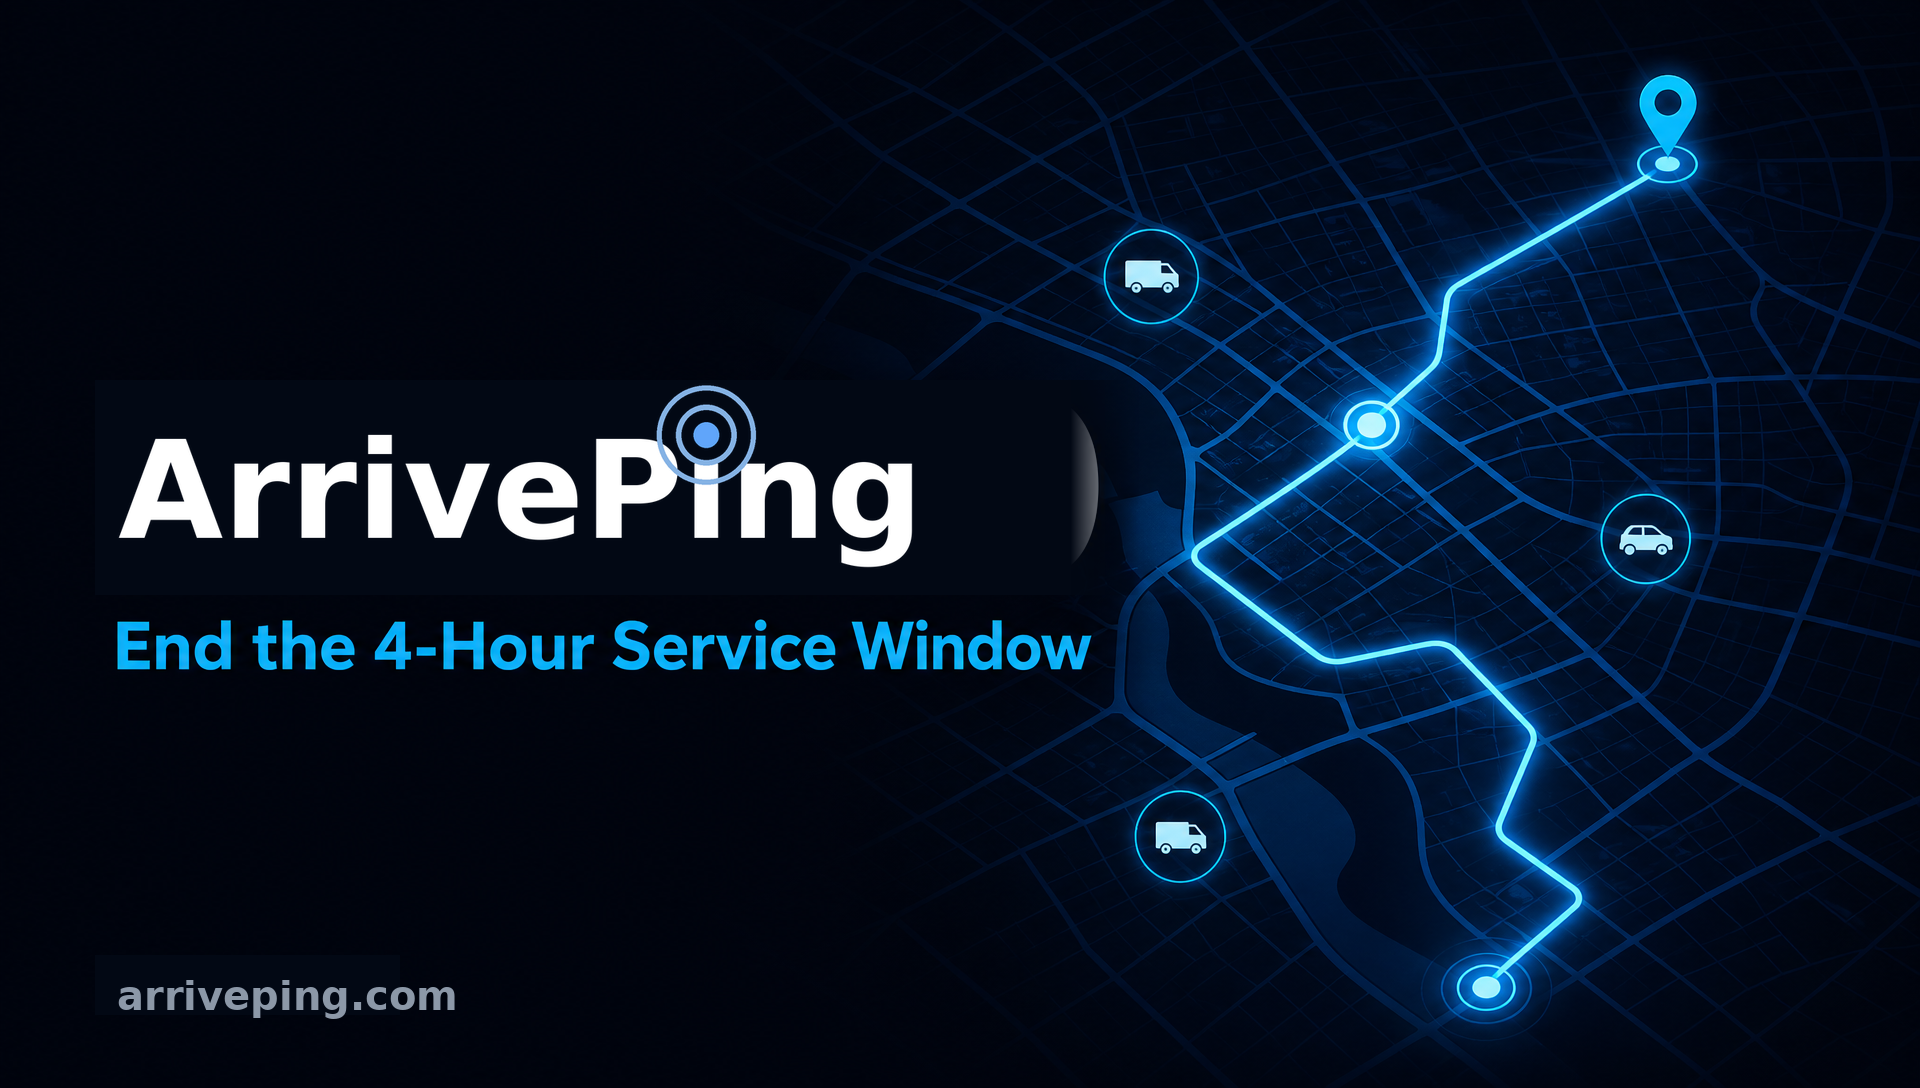
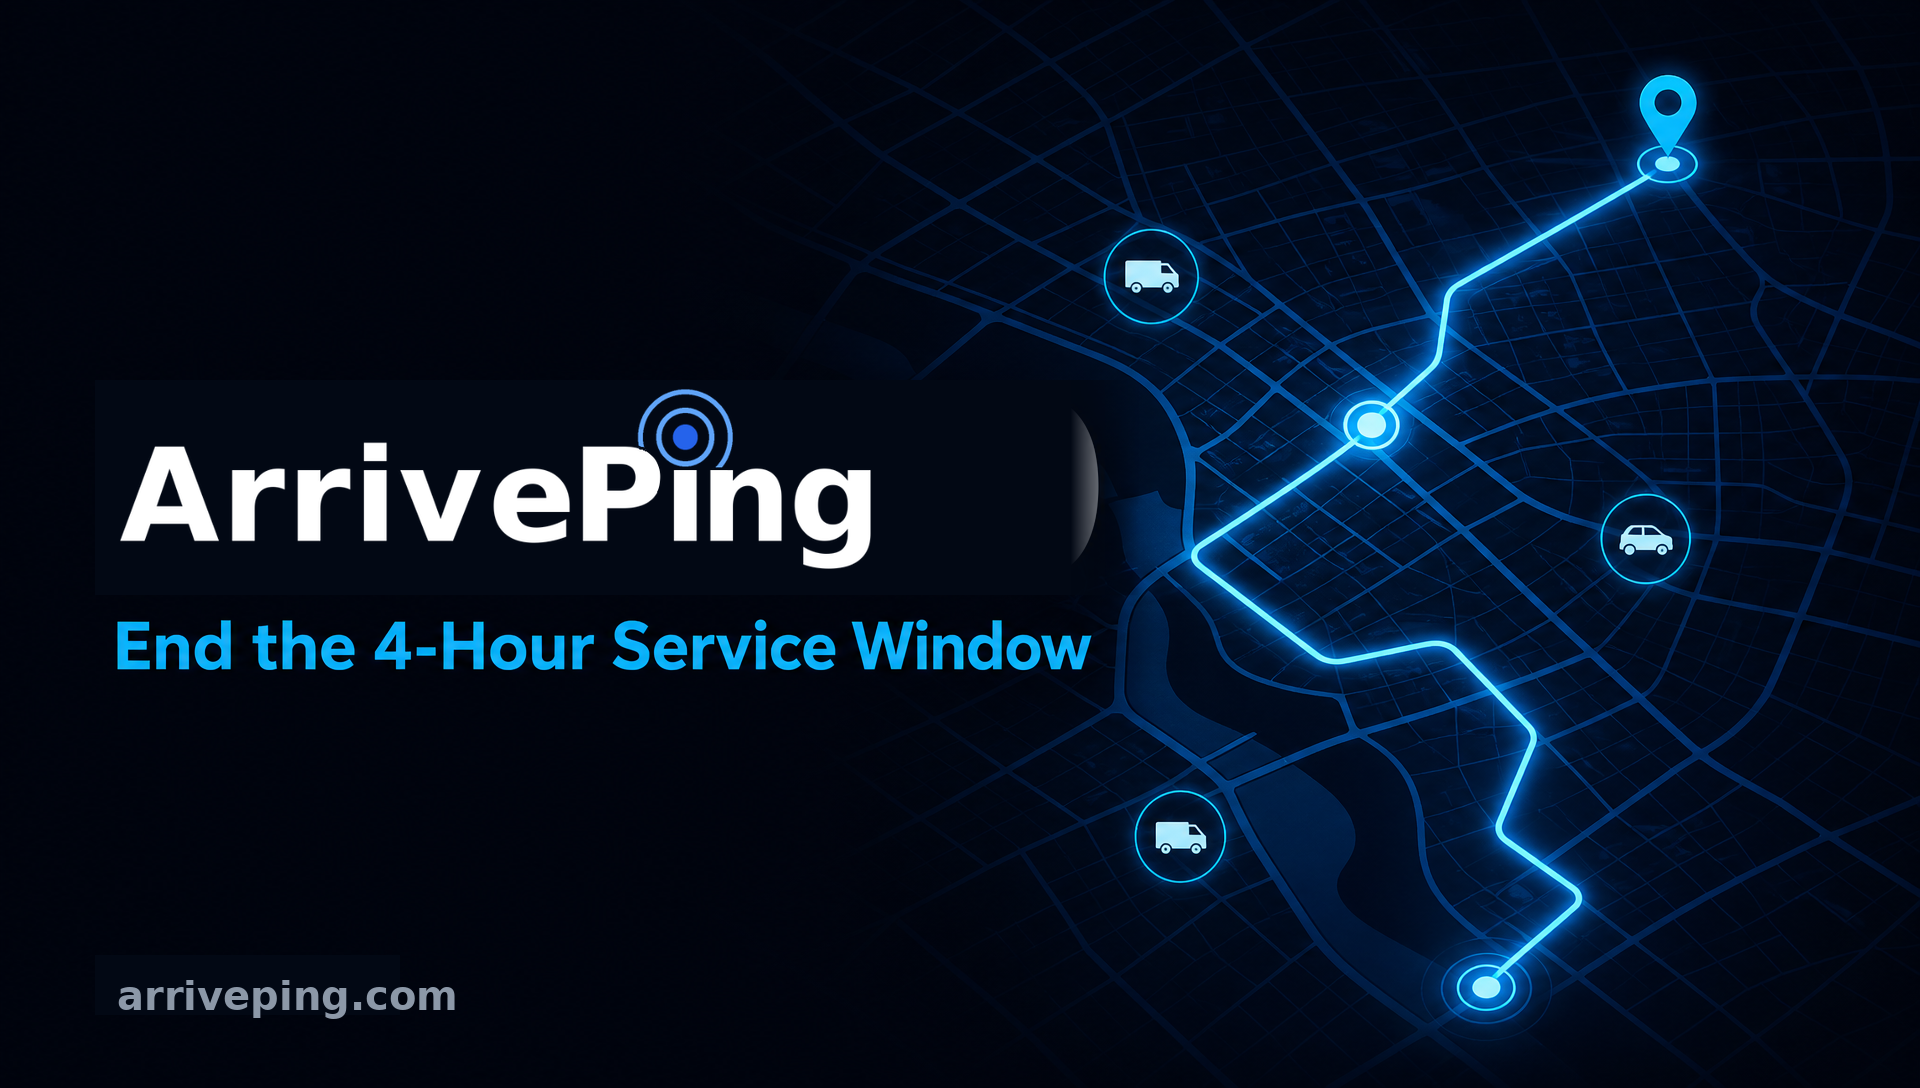
brand: approved ArrivePing wordmark (Oct 13 package)
Swap the light and dark wordmark PNGs for the approved package's native
927x286 transparent masters, reframed to the old files' padding so every
header, footer and media-slot logo keeps its size. Rebuild the share
image with the new light wordmark and version its URL (?v=2) so link
previews refresh. Bump wordmark cache keys to ?v=3.

Claude-Session: https://claude.ai/code/session_01NbP46AD6FSM3TXQFTLdn6c

Changed region(s): [[0.0625, 0.3438, 0.5, 0.5312]]

diff --git a/packages/web/index.html b/packages/web/index.html
@@ -12,12 +12,12 @@
 		<meta property="og:site_name" content="ArrivePing by NVC360" />
 		<meta property="og:title" content="ArrivePing: Field Service Software with Live Tech Tracking" />
 		<meta property="og:description" content="Auto-dispatch the closest qualified tech and text customers a live ETA. From $49/mo." />
-		<meta property="og:image" content="https://arriveping.com/og-image.png" />
+		<meta property="og:image" content="https://arriveping.com/og-image.png?v=2" />
 		<meta property="og:image:width" content="1200" />
 		<meta property="og:image:height" content="630" />
 		<meta property="og:type" content="website" />
 		<meta name="twitter:card" content="summary_large_image" />
-		<meta name="twitter:image" content="https://arriveping.com/og-image.png" />
+		<meta name="twitter:image" content="https://arriveping.com/og-image.png?v=2" />
 		<!--/seo-->
 	</head>
 	<body>

diff --git a/packages/web/src/web/site/config.ts b/packages/web/src/web/site/config.ts
@@ -13,8 +13,8 @@ export const brand = {
   lockup: "ArrivePing by NVC360",
   parent: "NVC360",
   tagline: "Appointment arrivals your customers can actually plan around.",
-  logoDark: "/arriveping-logo-dark.png?v=2", // navy wordmark for light surfaces
-  logoLight: "/arriveping-logo-light.png?v=2", // white wordmark for dark surfaces
+  logoDark: "/arriveping-logo-dark.png?v=3", // navy wordmark for light surfaces
+  logoLight: "/arriveping-logo-light.png?v=3", // white wordmark for dark surfaces
   icon: "/apple-touch-icon.png?v=3", // square navy "AP" + ping rings mark, full-bleed — used as a badge
   watermark: "/arriveping-icon-dark.png?v=3", // white "AP" on navy — ghosted behind the closing section
   contactEmail: "contact@nvc360.com",

diff --git a/packages/web/src/web/components/brand.tsx b/packages/web/src/web/components/brand.tsx
@@ -33,7 +33,7 @@ export function Logo({
   return (
     <Link to={to} className={cn("inline-flex items-center py-1 lg:py-0", className)}>
       <img
-        src={light ? "/arriveping-logo-light.png?v=2" : "/arriveping-logo-dark.png?v=2"}
+        src={light ? "/arriveping-logo-light.png?v=3" : "/arriveping-logo-dark.png?v=3"}
         alt="ArrivePing"
         className={cn("h-8 w-auto object-contain", imgClassName)}
       />

diff --git a/packages/web/src/web/site/seo/pages.ts b/packages/web/src/web/site/seo/pages.ts
@@ -179,7 +179,7 @@ const blogPostPages: SeoPage[] = posts.map((p) => {
   const cat = categoryBySlug[p.category];
   const author = authorFor(p.author);
   const title = p.title.length <= 52 ? `${p.title} | ArrivePing` : p.title;
-  const image = p.image ? absolute(p.image) : `${SITE_URL}/og-image.png`;
+  const image = p.image ? absolute(p.image) : `${SITE_URL}/og-image.png?v=2`;
   return {
     path,
     label: p.title,

diff --git a/packages/web/src/web/site/seo/head.ts b/packages/web/src/web/site/seo/head.ts
@@ -11,7 +11,7 @@ import { brand } from "../config";
 import { absolute, SITE_URL } from "./schema";
 import { seoByPath, type SeoPage } from "./pages";
 
-const OG_IMAGE = `${SITE_URL}/og-image.png`;
+const OG_IMAGE = `${SITE_URL}/og-image.png?v=2`;
 
 const esc = (s: string) =>
   s.replace(/&/g, "&amp;").replace(/</g, "&lt;").replace(/>/g, "&gt;").replace(/"/g, "&quot;");
